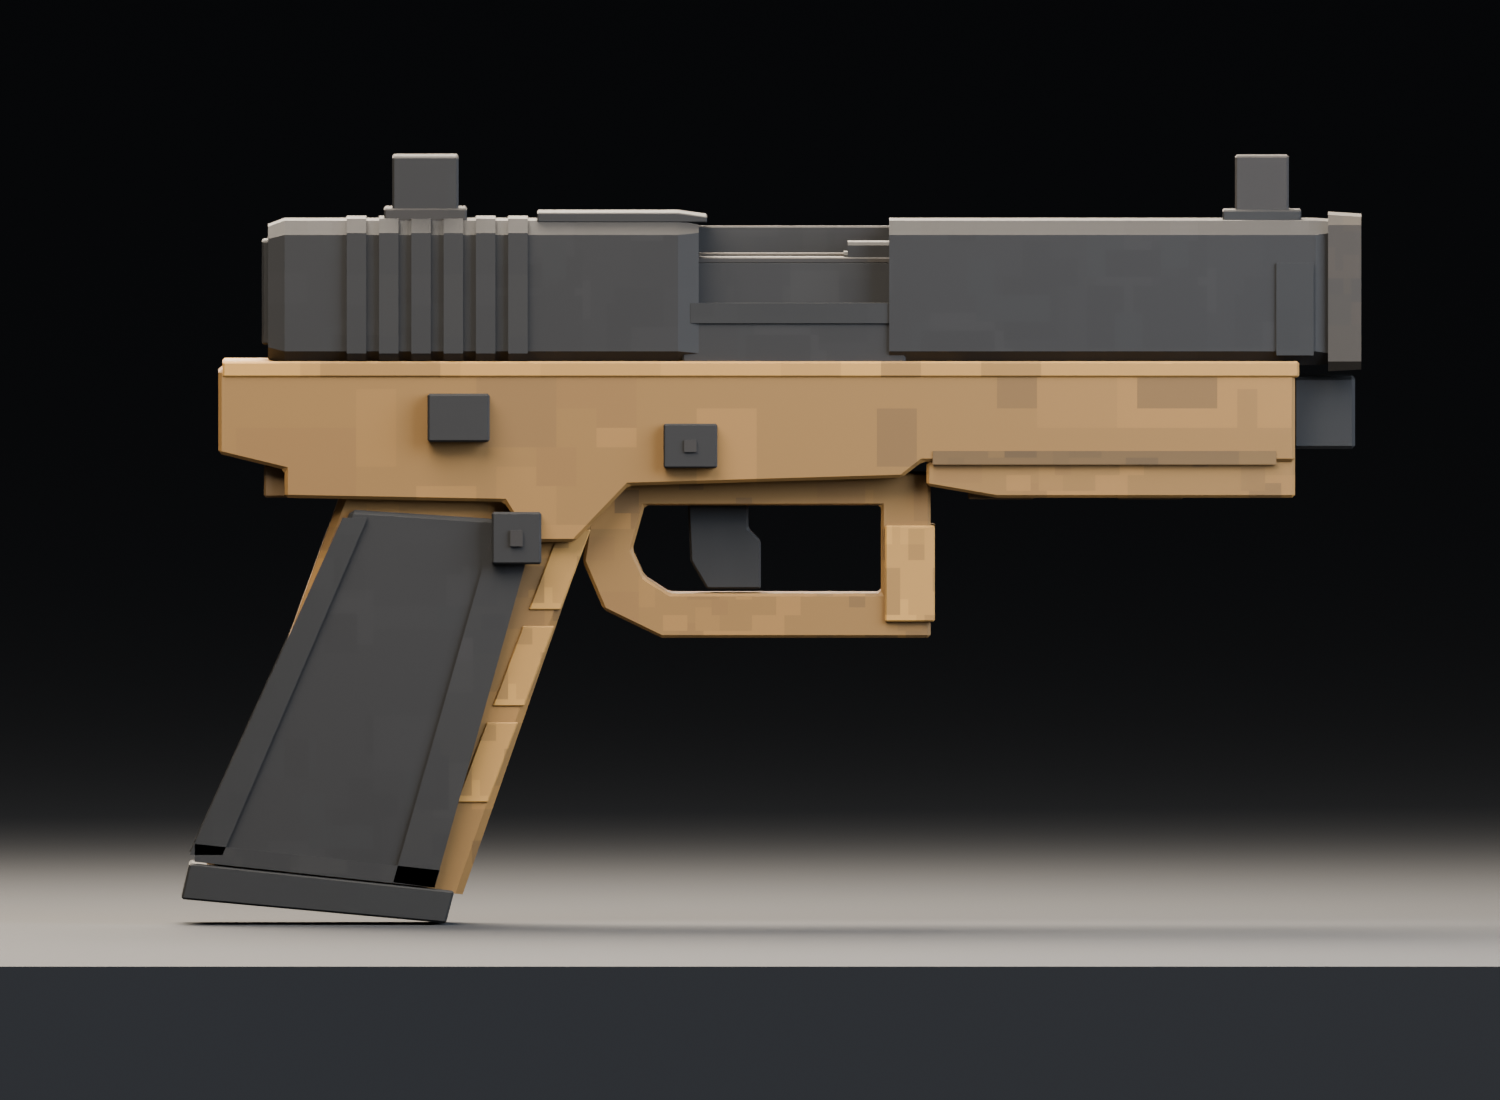
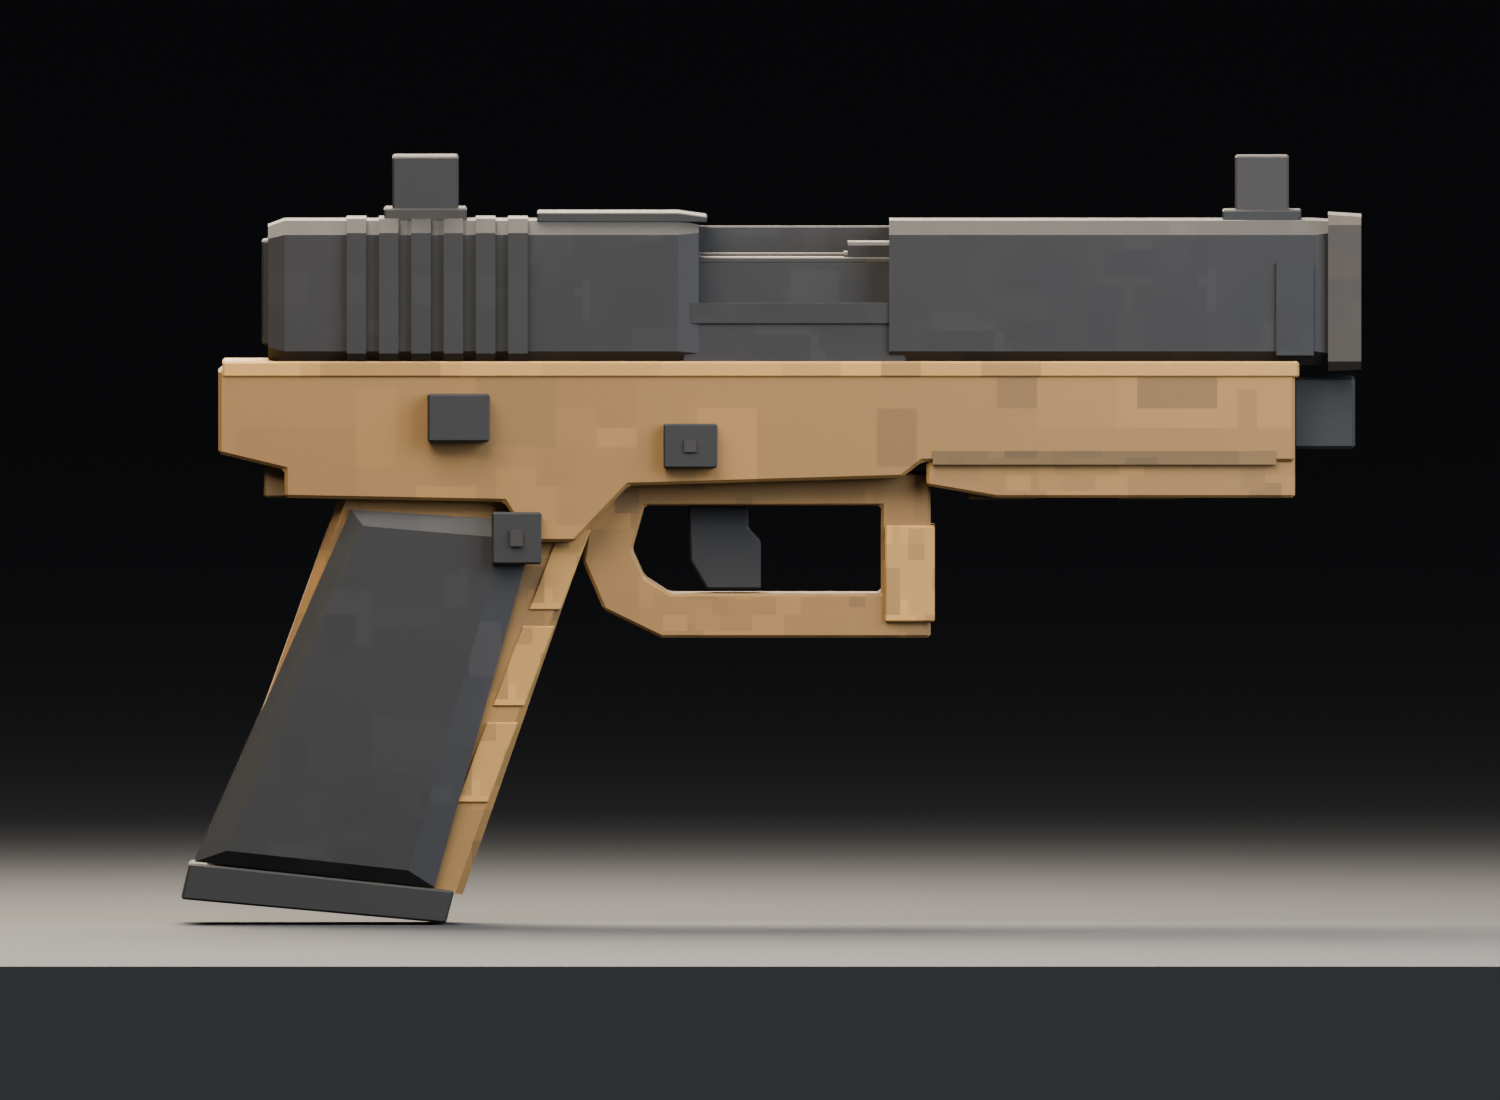
chore(project): revise 5 project files in project
Modified: 5.
Text lines: +8 / -4; binary files: 1.
- Modify: "blender/weapons/pistol_sand_block_v1/README.md"
- Modify: "blender/weapons/pistol_sand_block_v1/review/side.png" (binary)
- Modify: "blender/weapons/pistol_sand_block_v1/validation.json"
- Modify: "blender/weapons/showcase/README.md"
- Modify: "blender/weapons/showcase/weapon_manifest.json"

diff --git a/blender/weapons/showcase/README.md b/blender/weapons/showcase/README.md
@@ -1,5 +1,7 @@
 # Permanent Weapon Showcase
 
+**2026-10-19 — Pistol Sand Block V1 detail review:** the same Pending pistol now has stronger flat graphite pixel clusters, a stepped rear slide roof, a lower barrel hood with a narrow warm crown, a straighter stepped trigger, and connected faceted grip panels seated on a wider magazine floorplate. Dimensions and markers are unchanged. [Source and eight inspection views](../pistol_sand_block_v1/README.md); previous pistol/library are backed up under `.validation/pistol_sand_block_detail_20261019/`. Reopen an existing viewer to load the saved refinement.
+
 **2026-10-19 — Pistol Sand Block V1:** [new user-reference pistol](../pistol_sand_block_v1/README.md), sand frame and graphite slide, is registered Pending and selected by default. The same library now contains five active models; previous weapon entries and sources are preserved.
 
 **2026-10-19 — Red-orange scope tint:** both V1 glass lenses now use the user's requested red-orange color. Transmission, reflectivity, hollow housing and all geometry are retained.
